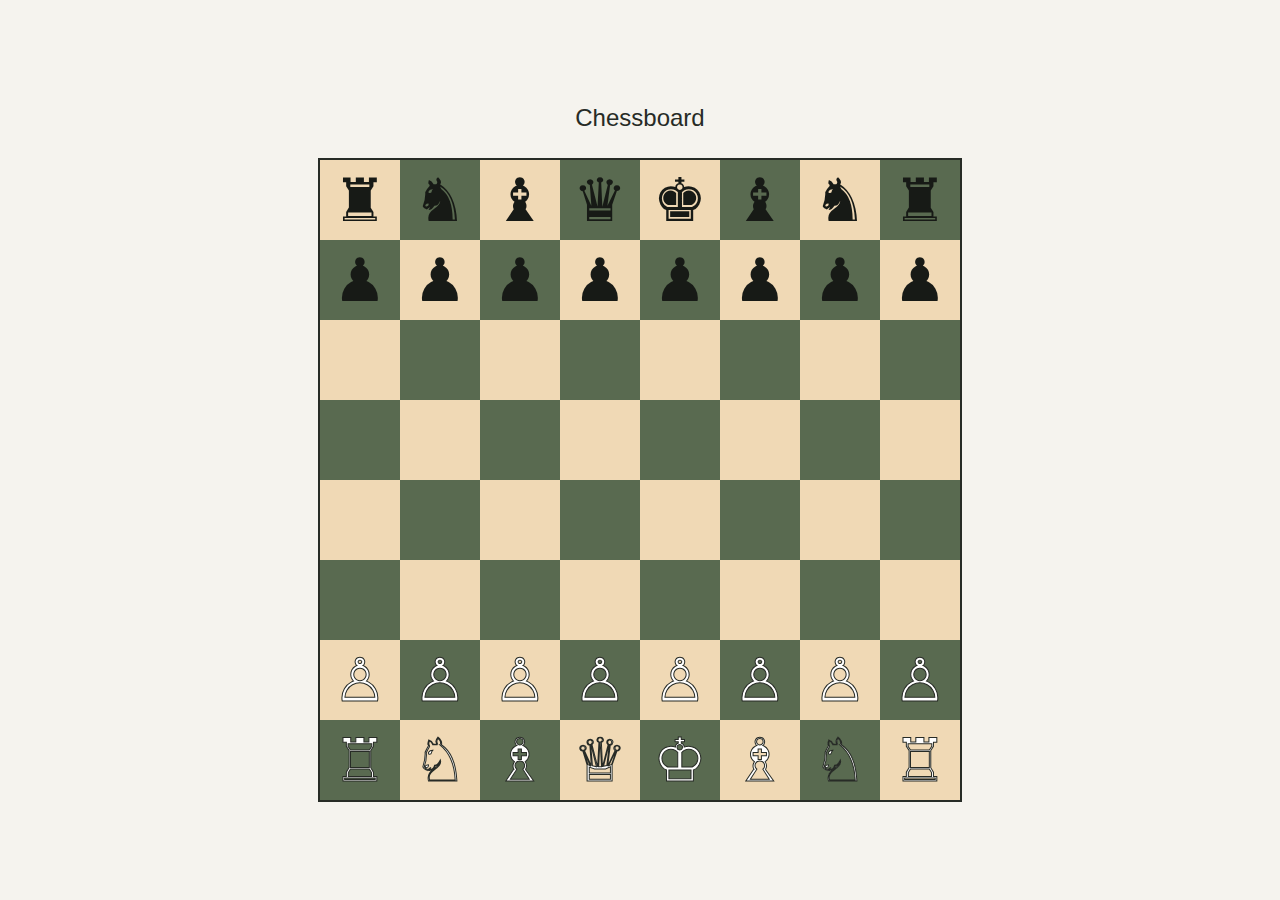
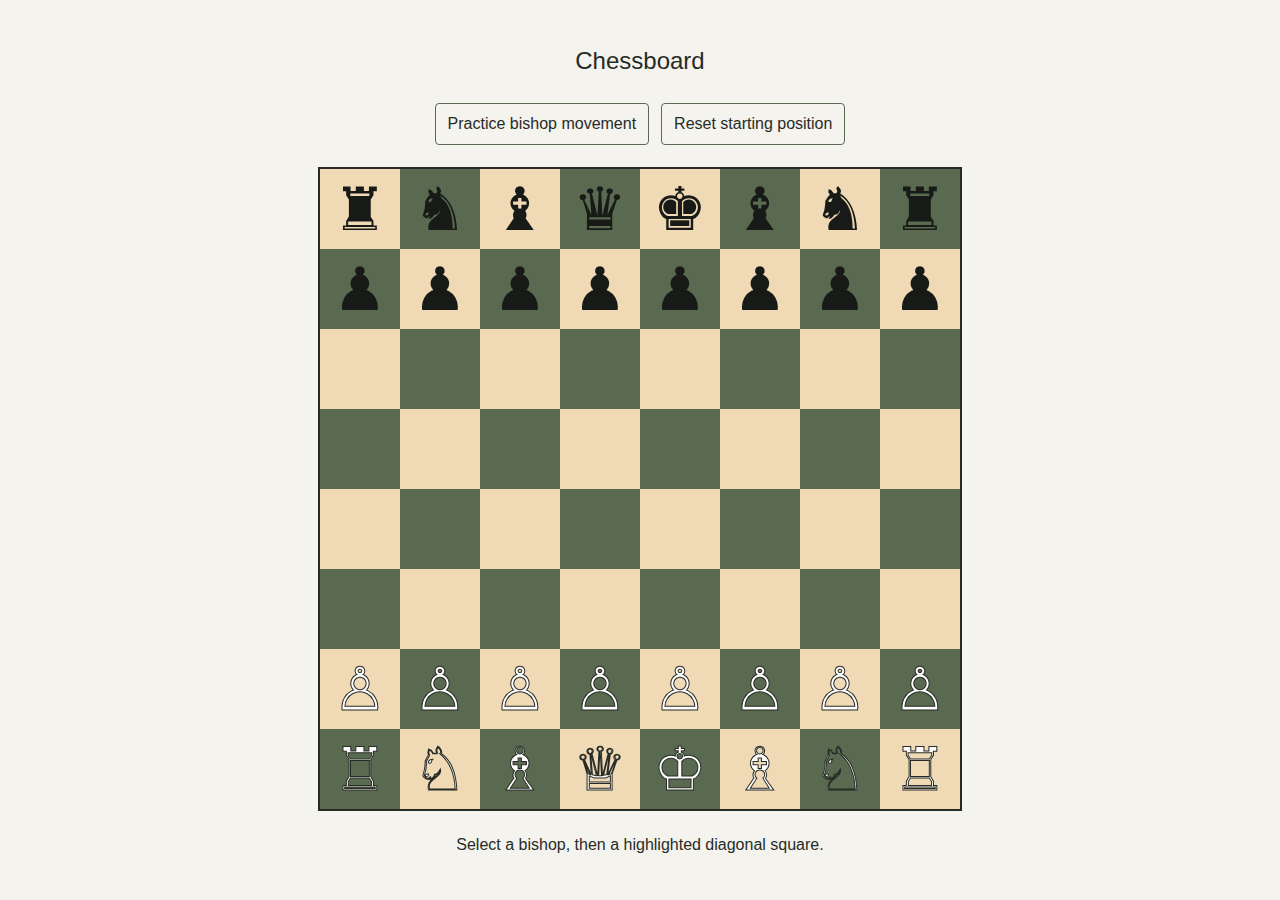
Implement bishop diagonal movement with interaction tests and screenshots

diff --git a/tests/e2e/chessboard.spec.ts b/tests/e2e/chessboard.spec.ts
@@ -51,3 +51,45 @@ for (const viewport of [
     await page.screenshot({ path: `docs/screenshots/chessboard-${viewport.name}.png`, fullPage: true });
   });
 }
+
+for (const mobile of [false, true]) {
+  test(`bishop interaction with ${mobile ? "touch" : "keyboard"}`, async ({ page }) => {
+    await page.setViewportSize(mobile ? { width: 375, height: 667 } : { width: 1280, height: 1000 });
+    await page.goto("/");
+    const square = (name: string) => page.getByRole("button", { name: new RegExp(`^${name}:`) });
+    const activate = async (name: string) => {
+      if (mobile) await square(name).tap();
+      else { await square(name).focus(); await page.keyboard.press("Enter"); }
+    };
+    await activate("c1");
+    await activate("e3");
+    await expect(square("c1")).toHaveAttribute("aria-pressed", "true");
+    await expect(page.getByRole("status")).toContainText("Invalid move");
+    await page.getByRole("button", { name: "Practice bishop movement" }).click();
+    await activate("d4");
+    await expect(square("g7")).toHaveAttribute("data-legal", "true");
+    await expect(square("a1")).not.toHaveAttribute("data-legal");
+    await page.screenshot({ path: `docs/screenshots/bishop-${mobile ? "mobile" : "desktop"}-selected.png`, fullPage: true });
+    await activate("d5");
+    await expect(square("d4")).toContainText("♗");
+    await activate("b2");
+    await activate("a1");
+    await expect(square("d4")).toContainText("♗");
+    await activate("g7");
+    await expect(square("d4")).toBeEmpty();
+    await expect(square("g7")).toContainText("♗");
+    await expect(page.getByRole("status")).toHaveText("Bishop moved from d4 to g7.");
+    await page.screenshot({ path: `docs/screenshots/bishop-${mobile ? "mobile" : "desktop"}-moved.png`, fullPage: true });
+    await page.getByRole("button", { name: "Practice bishop movement" }).click();
+    await activate("g7");
+    await activate("h8");
+    await expect(square("h8")).toContainText("♝");
+    await activate("h8");
+    await activate("h8");
+    await expect(square("h8")).toHaveAttribute("aria-pressed", "false");
+    await page.getByRole("button", { name: "Reset starting position" }).click();
+    await expect(page.getByRole("img")).toHaveCount(32);
+    await activate("a2");
+    await expect(page.getByRole("status")).toHaveText("Select a bishop to move.");
+  });
+}

diff --git a/app/bishop-game.tsx b/app/bishop-game.tsx
@@ -1,0 +1,53 @@
+"use client";
+
+import { useState } from "react";
+import Chessboard from "./chessboard";
+import { moveBishop, practiceBoard, squareName, startingBoard } from "./bishop";
+
+export default function BishopGame() {
+  const [board, setBoard] = useState(startingBoard);
+  const [selected, setSelected] = useState<number | null>(null);
+  const [message, setMessage] = useState("Select a bishop, then a highlighted diagonal square.");
+
+  function selectSquare(index: number) {
+    if (selected !== null) {
+      if (selected === index) {
+        setSelected(null);
+        setMessage("Selection cleared.");
+        return;
+      }
+      const next = moveBishop(board, selected, index);
+      if (next !== board) {
+        setBoard(next);
+        setSelected(null);
+        setMessage(`Bishop moved from ${squareName(selected)} to ${squareName(index)}.`);
+        return;
+      }
+    }
+    if (board[index]?.type === "bishop") {
+      setSelected(index);
+      setMessage(`Bishop on ${squareName(index)} selected. Choose a highlighted diagonal square.`);
+    } else {
+      setMessage(selected === null ? "Select a bishop to move." : "Invalid move. Choose an unobstructed diagonal square.");
+    }
+  }
+
+  return (
+    <>
+      <div className="board-controls">
+        <button type="button" onClick={() => {
+          setBoard(practiceBoard());
+          setSelected(null);
+          setMessage("Practice position. Either bishop can move; the pawn is a blocker.");
+        }}>Practice bishop movement</button>
+        <button type="button" onClick={() => {
+          setBoard(startingBoard());
+          setSelected(null);
+          setMessage("Starting position. Bishops are blocked by pawns.");
+        }}>Reset starting position</button>
+      </div>
+      <Chessboard board={board} selected={selected} onSquare={selectSquare} />
+      <p className="board-status" role="status">{message}</p>
+    </>
+  );
+}

diff --git a/app/bishop.ts b/app/bishop.ts
@@ -1,0 +1,48 @@
+import { backRank, type PieceColor, type PieceType } from "./piece";
+
+export type BoardPiece = { color: PieceColor; type: PieceType };
+export type Board = readonly (BoardPiece | null)[];
+
+export function startingBoard(): Board {
+  return Array.from({ length: 64 }, (_, index) => {
+    const row = Math.floor(index / 8);
+    const type = row === 0 || row === 7 ? backRank[index % 8]
+      : row === 1 || row === 6 ? "pawn" : null;
+    return type ? { color: row < 2 ? "black" : "white", type } : null;
+  });
+}
+
+export function practiceBoard(): Board {
+  const board: (BoardPiece | null)[] = Array(64).fill(null);
+  board[35] = { color: "white", type: "bishop" }; // d4
+  board[14] = { color: "black", type: "bishop" }; // g7
+  board[49] = { color: "white", type: "pawn" }; // b2
+  return board;
+}
+
+export function squareName(index: number): string {
+  return `${"abcdefgh"[index % 8]}${8 - Math.floor(index / 8)}`;
+}
+
+export function canMoveBishop(board: Board, from: number, to: number): boolean {
+  if (![from, to].every(index => Number.isInteger(index) && index >= 0 && index < 64)) return false;
+  const piece = board[from];
+  if (piece?.type !== "bishop" || from === to) return false;
+  const rowDistance = Math.floor(to / 8) - Math.floor(from / 8);
+  const columnDistance = to % 8 - from % 8;
+  if (Math.abs(rowDistance) !== Math.abs(columnDistance)) return false;
+  if (board[to]?.color === piece.color) return false;
+  const step = Math.sign(rowDistance) * 8 + Math.sign(columnDistance);
+  for (let index = from + step; index !== to; index += step) {
+    if (board[index]) return false;
+  }
+  return true;
+}
+
+export function moveBishop(board: Board, from: number, to: number): Board {
+  if (!canMoveBishop(board, from, to)) return board;
+  const next = [...board];
+  next[to] = next[from];
+  next[from] = null;
+  return next;
+}

diff --git a/app/chessboard.tsx b/app/chessboard.tsx
@@ -1,26 +1,34 @@
-import Piece, { backRank } from "./piece";
+import Piece from "./piece";
+import { type Board, canMoveBishop, squareName, startingBoard } from "./bishop";
 
-export default function Chessboard() {
+export default function Chessboard({ board = startingBoard(), selected = null, onSquare }: {
+  board?: Board;
+  selected?: number | null;
+  onSquare?: (index: number) => void;
+} = {}) {
   return (
     <div
       className="chessboard"
       role="group"
-      aria-label="Chessboard: 16 white pieces and 16 black pieces in their starting positions."
+      aria-label="Chessboard: select a bishop, then a diagonal destination."
     >
-      {Array.from({ length: 64 }, (_, index) => {
+      {board.map((piece, index) => {
         const row = Math.floor(index / 8);
         const column = index % 8;
         const color = (row + column) % 2 === 0 ? "light" : "dark";
-        const type = row === 0 || row === 7 ? backRank[column]
-          : row === 1 || row === 6 ? "pawn" : null;
-
+        const legal = selected !== null && canMoveBishop(board, selected, index);
         return (
-          <div
+          <button
+            type="button"
             key={index}
             className={`square square--${color}`}
+            aria-label={`${squareName(index)}: ${piece ? `${piece.color} ${piece.type}` : "empty"}${legal ? ", legal destination" : ""}`}
+            aria-pressed={selected === index}
+            data-legal={legal || undefined}
+            onClick={() => onSquare?.(index)}
           >
-            {type && <Piece color={row < 2 ? "black" : "white"} type={type} />}
-          </div>
+            {piece && <Piece color={piece.color} type={piece.type} />}
+          </button>
         );
       })}
     </div>

diff --git a/app/globals.css b/app/globals.css
@@ -60,3 +60,44 @@ h1 {
 .square--dark {
   background: #596a50;
 }
+
+.square {
+  padding: 0;
+  border: 0;
+  min-width: 0;
+  cursor: pointer;
+}
+
+.square[aria-pressed="true"] {
+  box-shadow: inset 0 0 0 4px #995000;
+}
+
+.square[data-legal] {
+  box-shadow: inset 0 0 0 4px #176a83;
+}
+
+.square:focus-visible {
+  outline: 3px solid #005fcc;
+  outline-offset: -3px;
+  z-index: 1;
+}
+
+.board-controls {
+  display: flex;
+  flex-wrap: wrap;
+  justify-content: center;
+  gap: 12px;
+}
+
+.board-controls button {
+  border: 1px solid #596a50;
+  border-radius: 4px;
+  padding: 8px 12px;
+  cursor: pointer;
+}
+
+.board-status {
+  margin: 0;
+  max-width: 640px;
+  text-align: center;
+}

diff --git a/playwright.config.ts b/playwright.config.ts
@@ -3,6 +3,7 @@ import { defineConfig } from "@playwright/test";
 export default defineConfig({
   testDir: "./tests/e2e",
   use: {
+    hasTouch: true,
     baseURL: "http://127.0.0.1:3000",
     launchOptions: process.env.CHROME_PATH
       ? { executablePath: process.env.CHROME_PATH }

diff --git a/app/page.tsx b/app/page.tsx
@@ -1,10 +1,10 @@
-import Chessboard from "./chessboard";
+import BishopGame from "./bishop-game";
 
 export default function Home() {
   return (
     <main>
       <h1>Chessboard</h1>
-      <Chessboard />
+      <BishopGame />
     </main>
   );
 }

diff --git a/README.md b/README.md
@@ -2,7 +2,9 @@
 
 A responsive 8 × 8 chessboard implementing FIDE Article 2.1: 64 equal squares alternate light and dark, with a light square at the near right corner for either player (bottom-right and top-left on screen).
 
-Each side has the 16 pieces specified in FIDE Article 2.2: one king, one queen, two rooks, two bishops, two knights, and eight pawns, displayed in their starting positions. Pieces use the specified Unicode symbols, light/dark styling, and accessible names. Movement and game rules are not implemented.
+Each side has the 16 pieces specified in FIDE Article 2.2: one king, one queen, two rooks, two bishops, two knights, and eight pawns, displayed in their starting positions. Pieces use the specified Unicode symbols, light/dark styling, and accessible names. Bishops can move any distance along an unobstructed diagonal, capture opposing pieces, and cannot land on friendly pieces. Select a bishop and then a highlighted destination using clicks, touch, or Tab and Enter/Space. Other pieces do not move; turns and king safety are outside this movement-only implementation.
+
+The starting position is preserved. Use **Practice bishop movement** to open the diagonals: a white bishop on d4, a black bishop on g7, and a friendly blocker on b2. **Reset starting position** restores all 32 pieces.
 
 ## Run
 
@@ -38,3 +40,11 @@ Each CI run uploads desktop and mobile PNG screenshots in the `chessboard-screen
 ![Desktop board with all 32 pieces](docs/screenshots/chessboard-desktop.png)
 
 ![Mobile board with all 32 pieces](docs/screenshots/chessboard-mobile.png)
+
+## Bishop movement proof
+
+![Selected bishop and legal diagonals](docs/screenshots/bishop-desktop-selected.png)
+
+![Bishop after capturing on g7](docs/screenshots/bishop-desktop-moved.png)
+
+Mobile proof is also captured in `docs/screenshots/bishop-mobile-selected.png` and `bishop-mobile-moved.png`.
